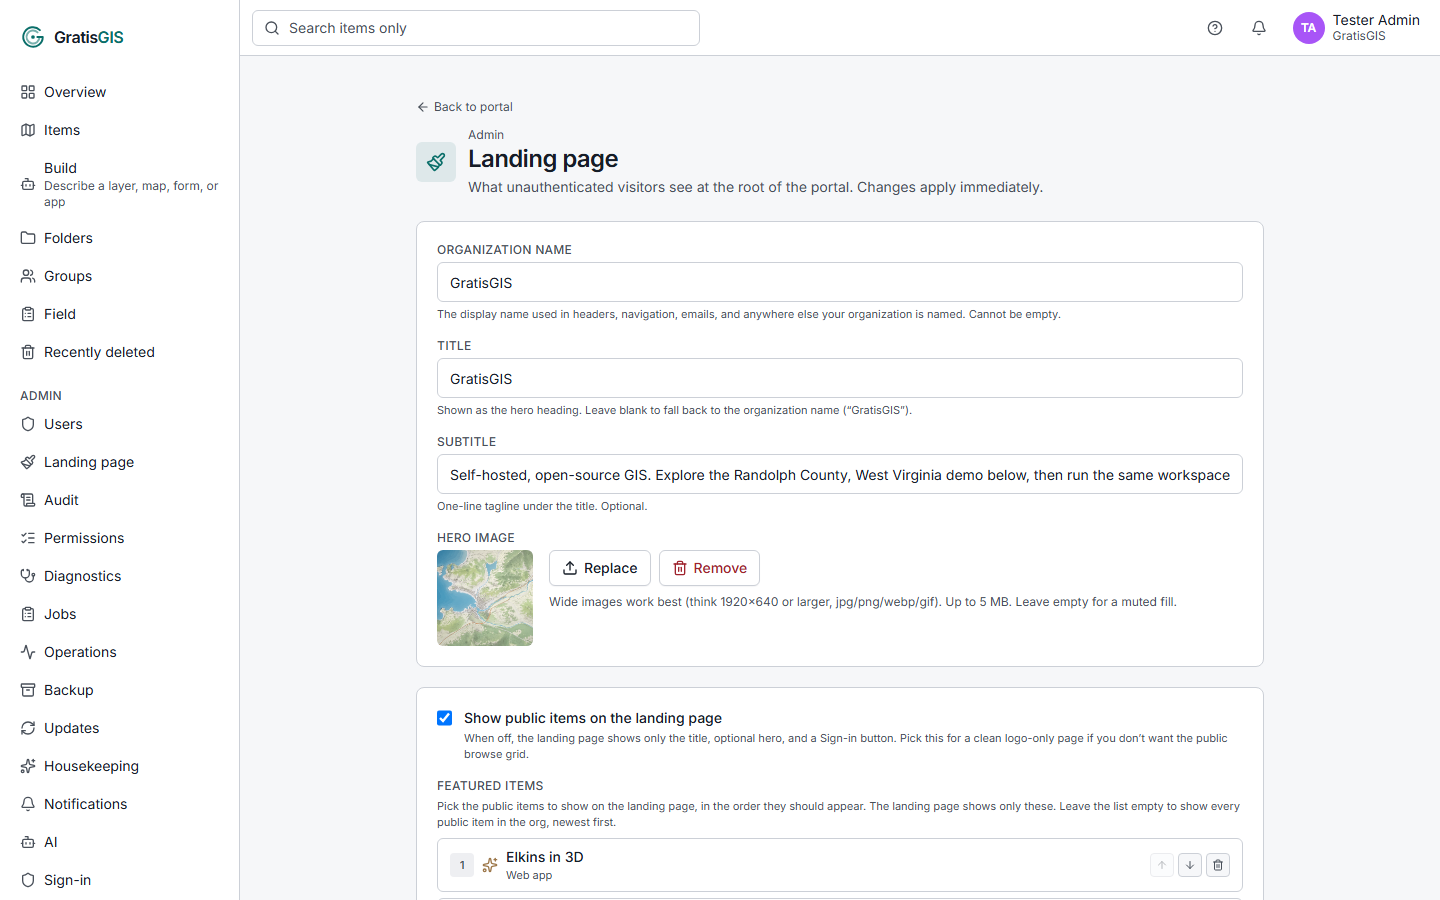
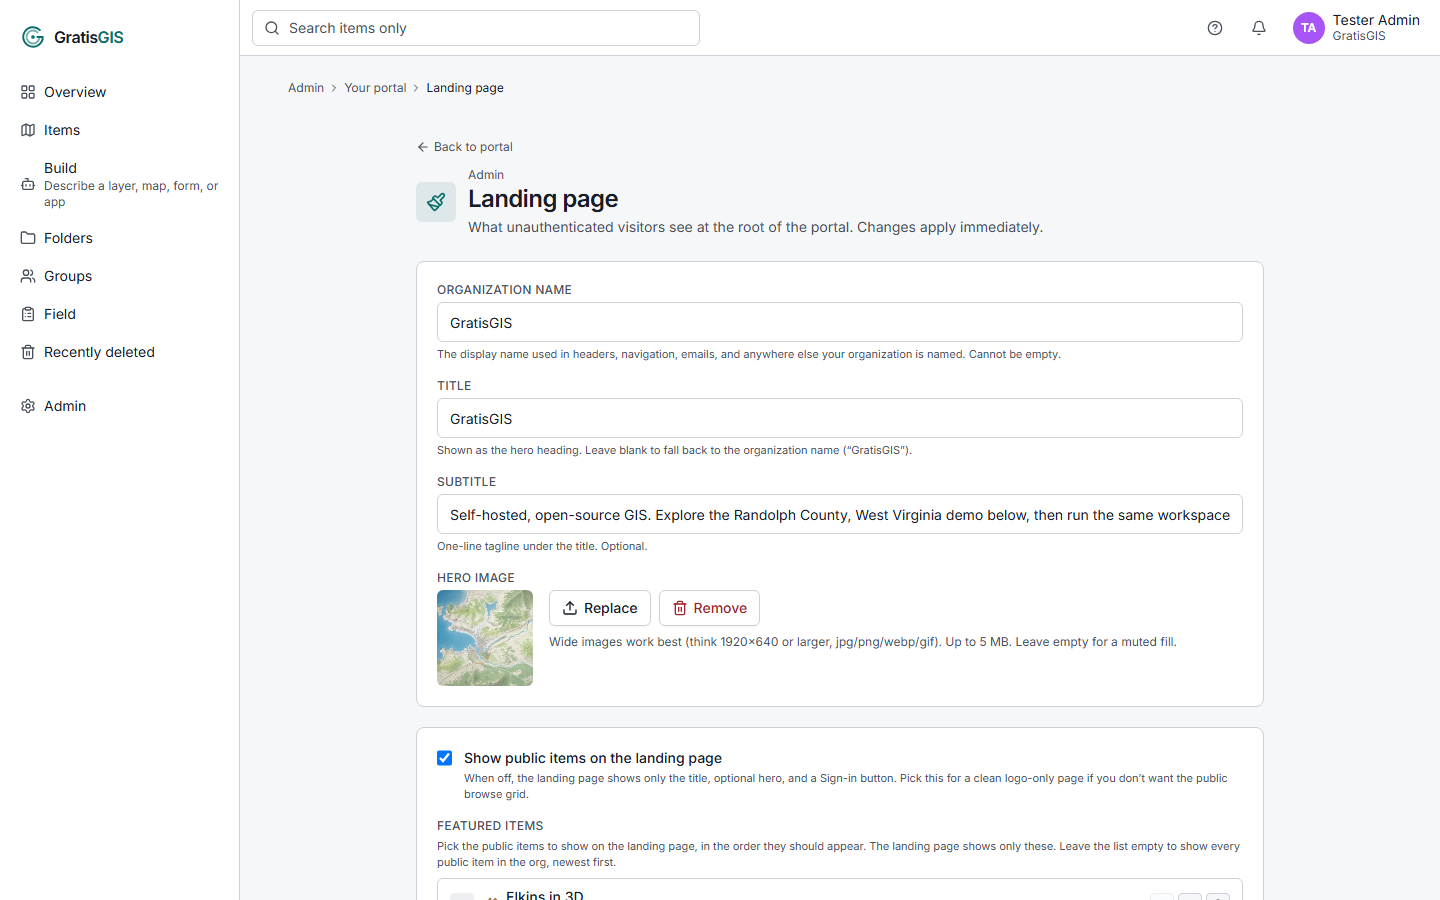
Retake admin help screenshots for the admin home
Adds admin-home.png to the capture list and the admin settings article, and retakes the admin shots that showed the old sidebar list.

diff --git a/apps/portal-web/content/help/admin/organization-settings.md b/apps/portal-web/content/help/admin/organization-settings.md
@@ -13,6 +13,8 @@ related:
   - admin-roles
   - admin-branding
 ---
+![The admin home: admin pages as cards in groups, with a search box](/help/admin/admin-home.png)
+
 Open **Admin** in the sidebar. The admin home lists every admin page
 as a card, grouped by what you want to do, with a search box at the
 top. Some limits are not pages at all: they are server settings that
